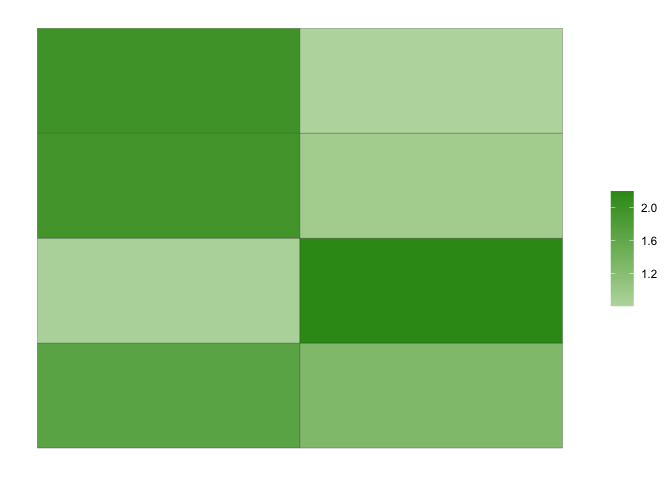
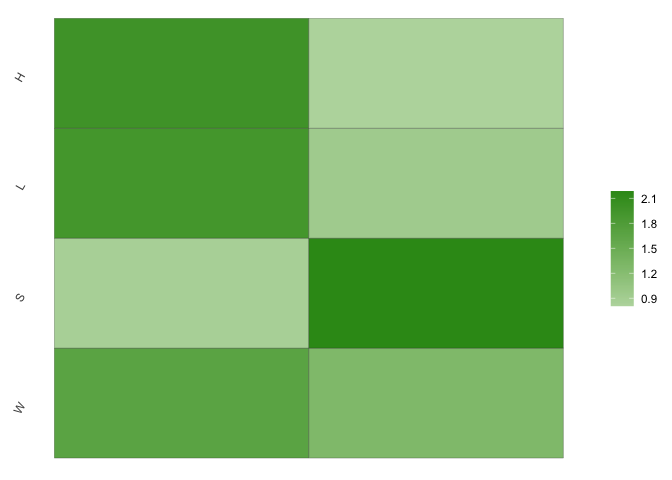
recompiled RMD file

Changed region(s): [[0.0, 0.0312, 0.8438, 0.9688], [0.9375, 0.4062, 1.0, 0.4688], [0.9375, 0.5, 1.0, 0.5312]]

diff --git a/README.md b/README.md
@@ -117,7 +117,9 @@ After post-processing the samples, visualize the posterior mean of the
 factor loadings for interpretation.
 
 ``` r
-  plot_factor_loadings(lambda_samples = aligned$lambda, row_idx = 1:4) 
+  plot_factor_loadings(lambda_samples = aligned$lambda, 
+                       variable_names = names(mussels),
+                       row_idx = 1:4) 
 ```
 
 <img src="man/figures/README-plot the factor loadings-1.png" width="100%" />
